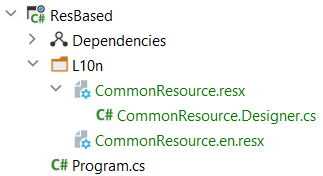
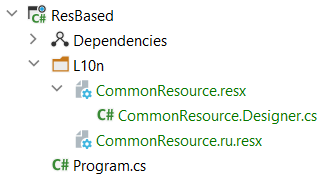
l10n

diff --git a/docs/c_sharp/asp-net-core/l10n/features-res-files/README.md b/docs/c_sharp/asp-net-core/l10n/features-res-files/README.md
@@ -11,23 +11,48 @@
 
 Это строки, которые можно использовать повсеместно, поэтому название для ресурсного файла будет "CommonResource".
 
-Первым делом надо создать **ресурсный файл по умолчанию**, иногда его еще называют **основной файл ресурсов**.  
-В нашем случае ресурсник по умолчанию будет содержать локализации для русского языка и создам я его в папке `L10n`:  
+Первым делом надо создать **ресурсный файл по умолчанию**, иногда его еще называют **основной файл ресурсов**:
+
+1. Определение того, какую локализацию будет содержать ресурсник по умолчанию, является чисто организационным мероприятием.
+2. Обычной практикой считается, что ресурсник по умолчанию содержит локализации для английского языка.
+
+Создам ресурсник по умолчанию в папке `L10n` и заполню его локализованными строками на английском языке:  
 ![](./pic/res-default.png)
 
 здесь:
 
 - **CommonResource.resx** - xml файл ресурсника
-- **CommonResource.Designer.cs** - создается автоматически. Экспортирует класс `CommonResource` - именно этот класс будем использовать в коде для доступа к локализации.
+- **CommonResource.Designer.cs** - создается автоматически. Экспортирует класс `CommonResource` - именно этот класс будем использовать в коде для доступа к локализации
 
-Определение того, какую локализацию будет содержать ресурсник по умолчанию, является чисто организационным мероприятием.
+После добавления основного файла ресурсов одновременно в файл проекта были добавлены записи:
 
-**Важно!** Ресурсник по умолчанию используется, если для текущей культуры dotnet не может найти ресурсник.  
-Например, в программе предполагается использовать 4 языка: **ru** (по умолчанию), **en**, **de**, **es**.  
-Ресурсники для языков - **en**, **de**, **es** - будут выбраны, только, если текущая культура совпадет с одним из них.  
-А вот ресурсник по умолчанию будет выбран для культуры **ru**, также он будет выбран для культуры **fr** или для вообще любой культуры, отличной от **en**, **de**, **es**.
+```xml
 
-**Важно!** Один раз выбрав для ресурсника по умолчанию, например, русский язык, повлечет за собой то, что содержимое всех других ресурсников-по-умолчанию придется также наполнять русским переводом, потому что поменять на другой язык во всех ресурсниках по умолчанию - может оказаться трудоемким занятием.
+<Project Sdk="Microsoft.NET.Sdk">
+  ...
+  <ItemGroup>
+    <EmbeddedResource Update="L10n\CommonResource.resx">
+      <Generator>ResXFileCodeGenerator</Generator>
+      <LastGenOutput>CommonResource.Designer.cs</LastGenOutput>
+    </EmbeddedResource>
+  </ItemGroup>
+
+  <ItemGroup>
+    <Compile Update="L10n\CommonResource.Designer.cs">
+      <DesignTime>True</DesignTime>
+      <AutoGen>True</AutoGen>
+      <DependentUpon>CommonResource.resx</DependentUpon>
+    </Compile>
+  </ItemGroup>
+</Project>
+```
+
+**Важно!** Ресурсник по умолчанию используется, если для текущей культуры приложения dotnet не может найти ресурсник.  
+Например, в программе предполагается использовать 4 языка: **en** (по умолчанию), **ru**, **de**, **es**.  
+Ресурсники для языков: **ru**, **de**, **es** - будут выбраны dotnet, только, если текущая культура совпадет с одним из них.  
+А вот ресурсник по умолчанию будет выбран для культуры **en**, также он будет выбран для культуры **fr** или для вообще любой культуры, отличной от **ru**, **de**, **es**.
+
+**Важно!** Один раз выбрав для ресурсника по умолчанию, например, английский язык, приведет к тому, что содержимое всех других ресурсников-по-умолчанию придется также наполнять английским переводом. Потом поменять на другой язык во всех ресурсниках по умолчанию может оказаться трудоемким занятием.
 
 # Локализованный файл ресурсов
 
@@ -36,23 +61,22 @@
 1. Указывайте для них тоже имя файла, что и для ресурсного файла по умолчанию
 2. Также в имени файла необходимо указать культуру
 
-В нашем случае ресурсный файл по умолчанию `CommonResource.resx`, который содержит локализацию для русского языка.  
-Допустим, я хочу добавить локализацию для английского языка, значит мне надо создать ресурсный файл с именем `CommonResource.en`:  
+В нашем случае ресурсный файл по умолчанию: `CommonResource.resx` - и он содержит локализацию для английского языка.  
+Допустим, теперь я хочу добавить локализацию для русского языка, значит мне надо создать ресурсный файл с именем `CommonResource.ru`:  
 ![](./pic/res-localized.png)
 
 здесь:
 
 - **CommonResource.resx** - xml файл ресурсника по умолчанию
-- **CommonResource.Designer.cs** - создается автоматически. Экспортирует класс `CommonResource` - именно этот класс будем использовать в коде для доступа к локализации.
-- **CommonResource.en.resx** - xml файл ресурсника с локализациями для культуры `en`
+- **CommonResource.Designer.cs** - создается автоматически. Экспортирует класс `CommonResource` - именно этот класс будем использовать в коде для доступа к локализации
+- **CommonResource.ru.resx** - xml файл ресурсника с локализациями для культуры `ru`
 
-Итак, при текущей конфигурации, если культура совпадает с `en`, то локализации будут браться из ресурсника `CommonResource.en.resx`, для всех остальных культур локализации будут браться из ресурсника `CommonResource.resx`, а в нашем примере он содержит локализации для русского языка.
+Итак, при текущей конфигурации, если культура совпадает с `ru`, то локализации будут браться из ресурсника `CommonResource.ru.resx`, для всех остальных культур локализации будут браться из ресурсника `CommonResource.resx`, а в нашем примере он содержит локализации для английского языка.
 
 # Редакторы ресурсных файлов
 
 ## Rider
 
-Наверное самый удобный редактор.  
 Для его вызова надо в верхнем меню вызвать: **Tools** ➔ **Localization Manager**:  
 ![](./pic/res-localization-manager.png)
 
